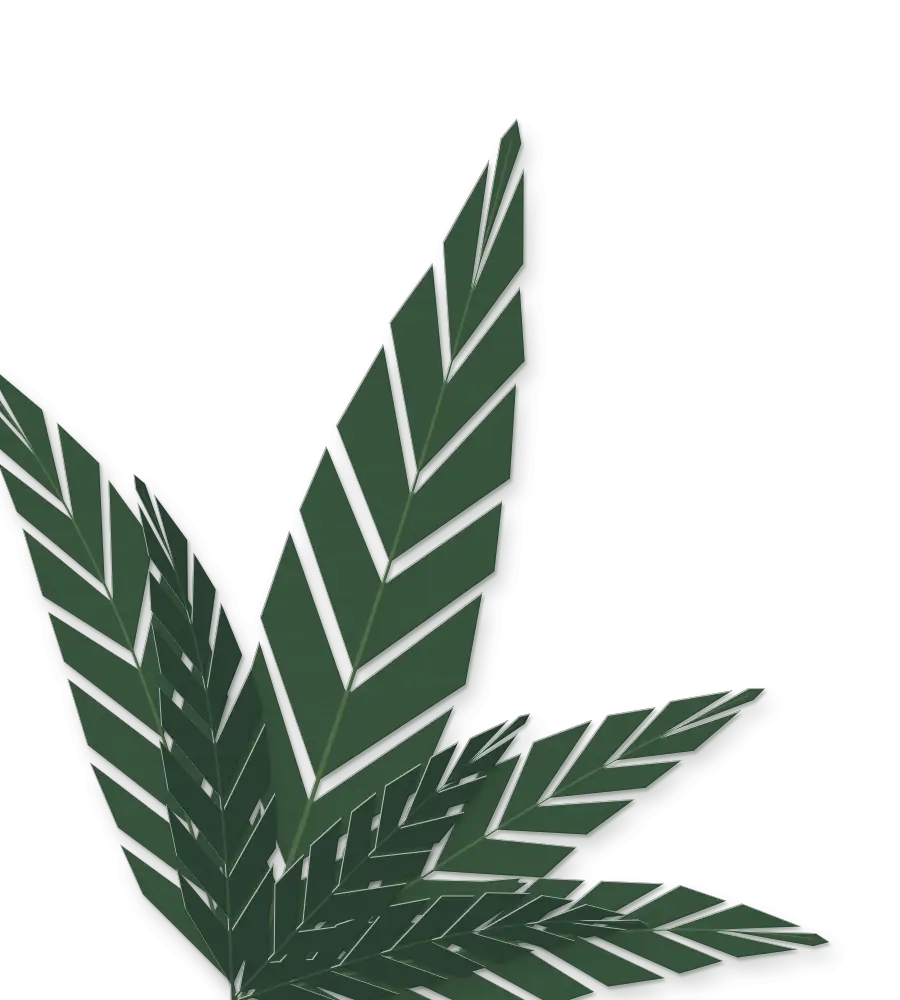
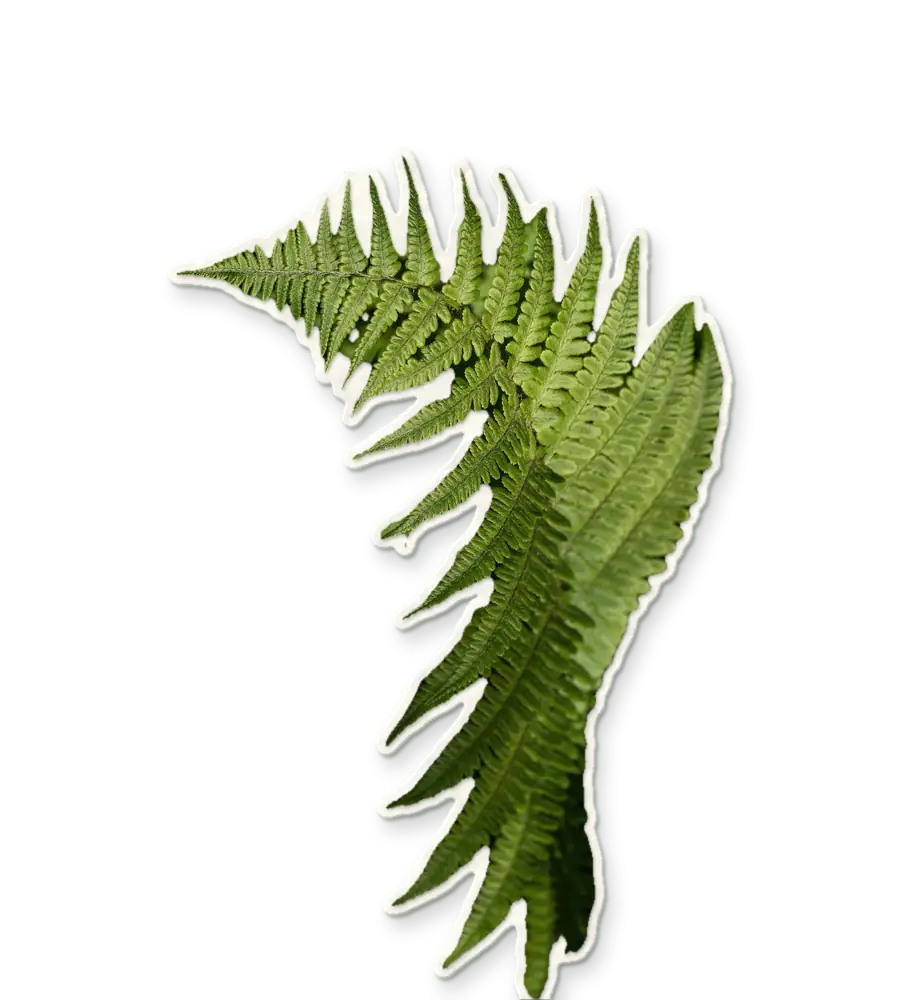
feat(landing): realistic paper jungle, real CC0 plant photos on paper cut-outs
A second route to compare with the drawn one (tag paper-jungle-v1-updated):
each plant cut to its outline from a CC0 photo, glued on crumpled paper with a
slim margin. Same layers, same letter motion. Sources in docs/jungle-photo-sources.md.

diff --git a/scripts/fgmask.swift b/scripts/fgmask.swift
@@ -1,0 +1,14 @@
+// Foreground mask from Apple Vision: swift tmp/fgmask.swift in.jpg out.png
+import Vision
+import CoreImage
+import Foundation
+let a = CommandLine.arguments
+let url = URL(fileURLWithPath: a[1])
+let req = VNGenerateForegroundInstanceMaskRequest()
+let h = VNImageRequestHandler(url: url)
+try h.perform([req])
+guard let r = req.results?.first else { print("no foreground"); exit(1) }
+let buf = try r.generateScaledMaskForImage(forInstances: r.allInstances, from: h)
+let ci = CIImage(cvPixelBuffer: buf)
+try CIContext().writePNGRepresentation(of: ci, to: URL(fileURLWithPath: a[2]), format: .L8, colorSpace: CGColorSpace(name: CGColorSpace.linearGray)!)
+print("ok", r.allInstances.count)

diff --git a/scripts/make-jungle-photos.py b/scripts/make-jungle-photos.py
@@ -1,0 +1,205 @@
+#!/usr/bin/env python3
+"""Realistic route of the paper jungle: real CC0 plant photos glued onto crumpled
+paper cut-outs. Each is cut to the plant's outline, with a slim paper margin, the
+crumples showing through the photo, a lit cut edge and a cast shadow. Writes over
+public/jungle/ with the same names and sizes as the paper version.
+Photos and masks are in --src (see docs/jungle-photo-sources.md for where each is
+from); treeline and hill outlines come from the paper version's files in --v1.
+    python -I scripts/make-jungle-photos.py --src DIR --v1 DIR [name-filter]"""
+import argparse
+import numpy as np
+from PIL import Image
+from scipy import ndimage as ni
+
+ap = argparse.ArgumentParser()
+ap.add_argument("--src", required=True)
+ap.add_argument("--v1", required=True)
+ap.add_argument("only", nargs="?")
+args = ap.parse_args()
+
+CANOPY = np.array([0.894, 0.91, 0.8])
+PAPER = np.array([0.97, 0.955, 0.92])
+SHADOW = np.array([0.09, 0.137, 0.106])
+TILE = np.asarray(Image.open("public/textures/paper.webp").convert("L"), dtype=np.float32) / 255
+
+
+def photo(slug, crop=(0, 0, 1, 1), flip=False, turn=0):
+    im = Image.open(f"{args.src}/{slug}/photo.jpg").convert("RGB")
+    w, h = im.size
+    box = (int(crop[0] * w), int(crop[1] * h), int(crop[2] * w), int(crop[3] * h))
+    im = im.crop(box)
+    mask = None
+    try:
+        m = Image.open(f"{args.src}/{slug}/mask.png").convert("L").resize((w, h)).crop(box)
+        mask = m
+    except FileNotFoundError:
+        pass
+    if flip:
+        im = im.transpose(Image.FLIP_LEFT_RIGHT)
+        mask = mask.transpose(Image.FLIP_LEFT_RIGHT) if mask else None
+    if turn:
+        im = im.rotate(turn, expand=True)
+        mask = mask.rotate(turn, expand=True) if mask else None
+    return im, mask
+
+
+def grade(rgb, mix=0.0, sat=0.88, gain=1.0):
+    gray = rgb.mean(axis=2, keepdims=True)
+    out = (gray + (rgb - gray) * sat) * gain
+    return np.clip(out * (1 - mix) + CANOPY * mix, 0, 1)
+
+
+def green_mask(rgb):
+    """For a plant against darker ground: its green against everything else."""
+    exg = ni.gaussian_filter(2 * rgb[..., 1] - rgb[..., 0] - rgb[..., 2], 9)
+    return ni.binary_fill_holes(exg > max(0.05, np.percentile(exg, 45)))
+
+
+def tidy(m, min_share=0.02, keep=4):
+    m = ni.binary_opening(m, iterations=1)
+    lab, n = ni.label(m)
+    if not n:
+        return m
+    sizes = ni.sum(m, lab, range(1, n + 1))
+    order = np.argsort(sizes)[::-1][:keep]
+    good = [i + 1 for i in order if sizes[i] >= sizes[order[0]] * min_share]
+    return np.isin(lab, good)
+
+
+def shift(a, dy, dx):
+    """Like np.roll, but what falls off an edge is gone rather than wrapping round."""
+    return ni.shift(a, (dy, dx), order=0, mode="constant", cval=0)
+
+
+def compose(name, rgb, m, margin=9, lift=1.0, photo_alpha=None):
+    """rgb: H,W,3 float; m: bool, the plant's outline at the same size."""
+    H, W = m.shape
+    dist = ni.distance_transform_edt(~m)
+    grown = ni.gaussian_filter((dist <= margin).astype(np.float32), 3.2) > 0.5
+    # Scissors don't reach into small gaps: they stay paper.
+    lab, n = ni.label(~grown)
+    if n:
+        sizes = ni.sum(~grown, lab, range(1, n + 1))
+        small = [i + 1 for i, s in enumerate(sizes) if s < 900]
+        grown = grown | np.isin(lab, small)
+    # Soft edge so the paper doesn't stair-step.
+    pa = np.clip(ni.gaussian_filter(grown.astype(np.float32), 0.8), 0, 1)
+    tile = np.tile(TILE, (H // TILE.shape[0] + 1, W // TILE.shape[1] + 1))[:H, :W]
+    crumple = np.clip(1 + (tile - tile.mean()) * 1.5, 0.72, 1.14)[..., None]
+    paper = PAPER * crumple
+    ph = ni.gaussian_filter(ni.binary_erosion(m, iterations=1).astype(np.float32), 0.7) if photo_alpha is None else photo_alpha
+    contact = ni.gaussian_filter(shift(ph, 2, 1), 1.6)[..., None] * 0.34
+    base = paper * (1 - contact) + SHADOW * contact
+    glued = np.clip(rgb * crumple, 0, 1)
+    color = base * (1 - ph[..., None]) + glued * ph[..., None]
+    # The paper's cut edge: lit toward the top left, dark toward the bottom right.
+    lit = np.clip(pa - shift(pa, 1, 1), 0, 1)[..., None]
+    dark = np.clip(pa - shift(pa, -1, -1), 0, 1)[..., None]
+    color = np.clip(color + lit * 0.5, 0, 1) * (1 - dark * 0.28)
+    near = ni.gaussian_filter(shift(pa, int(3 * lift), int(2 * lift)), 1.6 * lift) * 0.3
+    wide = ni.gaussian_filter(shift(pa, int(13 * lift), int(7 * lift)), 9 * lift) * 0.2
+    sh = np.clip(near + wide, 0, 0.5)
+    alpha = pa + (1 - pa) * sh
+    out = (color * pa[..., None] + SHADOW * ((1 - pa) * sh)[..., None]) / np.maximum(alpha[..., None], 1e-4)
+    rgba = np.dstack([np.clip(out, 0, 1), alpha])
+    img = Image.fromarray((rgba * 255 + 0.5).astype(np.uint8), "RGBA")
+    img.save(f"public/jungle/{name}.webp", quality=68, alpha_quality=82, method=6)
+    print(name, f"{W}x{H}", f"{__import__('os').path.getsize(f'public/jungle/{name}.webp') // 1024}KB")
+
+
+def cut_plant(name, W, H, slug, crop=(0, 0, 1, 1), flip=False, turn=0, how="vision", anchor="bottom", mix=0.0, sat=0.88, gain=1.0, margin=9, fill=0.97, thresh=None, base_down=False, lean=0):
+    im, mask = photo(slug, crop, flip, turn)
+    rgb0 = np.asarray(im, dtype=np.float32) / 255
+    if how == "vision":
+        m = np.asarray(mask, dtype=np.float32) / 255 > 0.5
+    elif how == "bright":
+        m = ni.gaussian_filter(rgb0.max(axis=2), 1.2) > (thresh or 0.14)
+    else:
+        m = green_mask(rgb0)
+    m = tidy(m)
+    if base_down:
+        # The photo's frame cuts the plant somewhere: turn that side to the bottom, hidden behind the hill.
+        sides = [m[-1].sum(), m[:, -1].sum(), m[0].sum(), m[:, 0].sum()]  # bottom, right, top, left
+        quarter = int(np.argmax(sides))
+        if quarter:
+            angle = {1: -90, 2: 180, 3: 90}[quarter]
+            im = im.rotate(angle, expand=True)
+            m = np.rot90(m, {-90: -1, 180: 2, 90: 1}[angle])
+    if lean:
+        im = im.rotate(lean, expand=True, fillcolor=(0, 0, 0))
+        m = np.asarray(Image.fromarray((m * 255).astype(np.uint8)).rotate(lean, expand=True)) > 127
+    ys, xs = np.where(m)
+    x0, x1, y0, y1 = xs.min(), xs.max() + 1, ys.min(), ys.max() + 1
+    k = min((W - 2 * margin - 8) * fill / (x1 - x0), (H - margin - 8) * fill / (y1 - y0))
+    nw, nh = max(1, int((x1 - x0) * k)), max(1, int((y1 - y0) * k))
+    part = im.crop((x0, y0, x1, y1)).resize((nw, nh), Image.LANCZOS)
+    pm = Image.fromarray((m[y0:y1, x0:x1] * 255).astype(np.uint8)).resize((nw, nh), Image.LANCZOS)
+    canvas = np.zeros((H, W, 3), dtype=np.float32)
+    cm = np.zeros((H, W), dtype=bool)
+    ox = (W - nw) // 2
+    oy = H - nh if anchor == "bottom" else 0
+    canvas[oy:oy + nh, ox:ox + nw] = np.asarray(part, dtype=np.float32) / 255
+    cm[oy:oy + nh, ox:ox + nw] = np.asarray(pm) > 127
+    compose(name, grade(canvas, mix, sat, gain), cm, margin=margin)
+
+
+def cover(slug, W, H, crop=(0, 0, 1, 1)):
+    im, _ = photo(slug, crop)
+    k = max(W / im.width, H / im.height)
+    im = im.resize((int(im.width * k) + 1, int(im.height * k) + 1), Image.LANCZOS)
+    l, t = (im.width - W) // 2, (im.height - H) // 2
+    return np.asarray(im.crop((l, t, l + W, t + H)), dtype=np.float32) / 255
+
+
+def cut_outline(name, slug, crop=(0, 0, 1, 1), mix=0.0, sat=0.88, gain=1.0, margin=6, lift=1.0, soften=0):
+    """A photo cut to the paper version's outline (treelines, hills), its thin tips softened to a mass of leaves."""
+    a = np.asarray(Image.open(f"{args.v1}/{name}.webp").convert("RGBA"))[..., 3] / 255
+    m = a > 0.82
+    if soften:
+        m = ni.gaussian_filter(m.astype(np.float32), soften) > 0.55
+    m = ni.binary_erosion(m, iterations=max(1, margin // 2))
+    H, W = m.shape
+    compose(name, grade(cover(slug, W, H, crop), mix, sat, gain), m, margin=margin, lift=lift)
+
+
+def cut_trunk(name, W, H, girth, seed, mix, gain=1.0):
+    """A redwood trunk running out of frame, cut from real bark."""
+    rng = np.random.default_rng(seed)
+    half = W * girth
+    cx = W / 2
+    ys = np.arange(H) / H
+    wob = ni.gaussian_filter1d(rng.normal(0, 1, H), 40) * 40
+    flare = np.where(ys > 0.86, ((ys - 0.86) / 0.14) ** 2 * half * 0.55, 0)
+    width = half * (0.62 + 0.38 * ys) + flare
+    xx = np.arange(W)[None, :]
+    left = cx - width + wob
+    right = cx + width + wob * 0.6
+    m = (xx > left[:, None]) & (xx < right[:, None])
+    bark = cover("bark", int(W), H, (0.2, 0.05, 0.62, 0.6))
+    warm = np.clip(bark * np.array([1.12, 0.86, 0.72]) * 0.86, 0, 1) ** 1.12
+    compose(name, grade(warm, mix, 1.1, gain), m, margin=4)
+
+
+JOBS = {
+    "treeline-far": lambda n: cut_outline(n, "henry-cowell", (0, 0.4, 1, 0.8), mix=0.58, sat=0.8, lift=0.6, margin=3, soften=16),
+    "treeline-mid": lambda n: cut_outline(n, "redwood-floor", (0, 0.35, 1, 0.75), mix=0.42, sat=0.9, gain=1.5, margin=3, soften=14),
+    "redwood-b": lambda n: cut_trunk(n, 460, 1500, 0.15, 3, mix=0.5, gain=1.1),
+    "redwood-a": lambda n: cut_trunk(n, 760, 1500, 0.19, 7, mix=0.24, gain=1.0),
+    "shrub-a": lambda n: cut_plant(n, 780, 460, "huckleberry", (0.1, 0.2, 0.95, 0.9), how="green", gain=1.05),
+    "shrub-b": lambda n: cut_plant(n, 640, 380, "huckleberry", (0.1, 0.2, 0.95, 0.9), flip=True, how="green", gain=0.82),
+    "fern-a": lambda n: cut_plant(n, 820, 540, "berkeley-fern", gain=0.95),
+    "fern-b": lambda n: cut_plant(n, 700, 460, "berkeley-fern", flip=True, mix=0.12),
+    "fern-c": lambda n: cut_plant(n, 700, 460, "sword-frond", base_down=True, lean=-8, gain=0.85, fill=0.86),
+    "fern-d": lambda n: cut_plant(n, 700, 460, "fern-black", how="bright", mix=0.28, gain=1.35),
+    "palm-a": lambda n: cut_plant(n, 900, 1000, "lady-fern", turn=-75, gain=0.85, fill=0.86),
+    "palm-b": lambda n: cut_plant(n, 760, 840, "fern-black", how="bright", gain=1.7, sat=1.05, fill=0.78),
+    "palm-c": lambda n: cut_plant(n, 760, 840, "lady-fern", turn=-75, mix=0.45),
+    "vine-a": lambda n: cut_plant(n, 420, 860, "fern-black", turn=180, how="bright", anchor="top", gain=1.25),
+    "hill-deep": lambda n: cut_outline(n, "deer-fern", (0, 0.2, 1, 0.7), sat=0.85, gain=0.95, soften=6, margin=4),
+    "hill-night": lambda n: cut_outline(n, "deer-fern", (0, 0.3, 1, 0.75), sat=0.85, gain=0.95, soften=2, margin=4),
+}
+
+for name, job in JOBS.items():
+    if args.only and args.only not in name:
+        continue
+    job(name)

diff --git a/docs/jungle-photo-sources.md b/docs/jungle-photo-sources.md
@@ -1,0 +1,15 @@
+# Photos in the realistic paper jungle
+
+All from Wikimedia Commons, each marked CC0 (public domain dedication) on its file page when downloaded on 2026-10-31. CC0 asks for no credit; these are listed so we can re-check or swap them. Cut out and processed by `scripts/make-jungle-photos.py`. The cut-outs on paper are in `public/jungle/` on `feat/paper-jungle-photo`.
+
+| Used for | File | Licence | By |
+|---|---|---|---|
+| the lacy frond (left foreground, hanging top left, margins) | [Fern lighting.jpg](https://commons.wikimedia.org/wiki/File:Fern_lighting.jpg) | CC0 | Shyamal |
+| the big right-hand frond, pale margin leaves | [Lady fern at Myrstigen trail 1.jpg](https://commons.wikimedia.org/wiki/File:Lady_fern_at_Myrstigen_trail_1.jpg) | CC0 | W.carter |
+| dark hill strips | [Deer fern in the temperate rain-forest of Kaien Island.jpg](https://commons.wikimedia.org/wiki/File:Deer_fern_in_the_temperate_rain-forest_of_Kaien_Island.jpg) | CC0 | Extemporalist |
+| low western sword fern at the seam | [FERN, WESTERN SWORD (polystrichum munitum) (4-3-08) coon creek -3 (238](https://commons.wikimedia.org/wiki/File:FERN,_WESTERN_SWORD_(polystrichum_munitum)_(4-3-08)_coon_creek_-3_(2386727854).jpg) | CC0 | ALAN SCHMIERER |
+| sword-fern clumps | [Polystichum californicum - Regional Parks Botanic Garden, Berkeley, CA](https://commons.wikimedia.org/wiki/File:Polystichum_californicum_-_Regional_Parks_Botanic_Garden,_Berkeley,_CA_-_DSC04428.JPG) | CC0 | Daderot |
+| far treeline (Henry Cowell Redwoods, by UCSC) | [Henry cowell redwoods state park trees 2023.jpg](https://commons.wikimedia.org/wiki/File:Henry_cowell_redwoods_state_park_trees_2023.jpg) | CC0 | Librarybell |
+| mid treeline | [Redwood trees and ferns in Redwood National and State Parks, June 24, ](https://commons.wikimedia.org/wiki/File:Redwood_trees_and_ferns_in_Redwood_National_and_State_Parks,_June_24,_2024.jpg) | CC0 | Library of Congress Life |
+| all redwood trunks | [Sequoia sempervirens in Armstrong Redwoods State Natural Reserve - Jan](https://commons.wikimedia.org/wiki/File:Sequoia_sempervirens_in_Armstrong_Redwoods_State_Natural_Reserve_-_January_2023_-_Sarah_Stierch_03.jpg) | CC0 | Missvain |
+| shrubs (evergreen huckleberry, native to Santa Cruz) | [Evergreen Huckleberry (Vaccinium ovatum).jpg](https://commons.wikimedia.org/wiki/File:Evergreen_Huckleberry_(Vaccinium_ovatum).jpg) | CC0 | Kollibri1969 |
